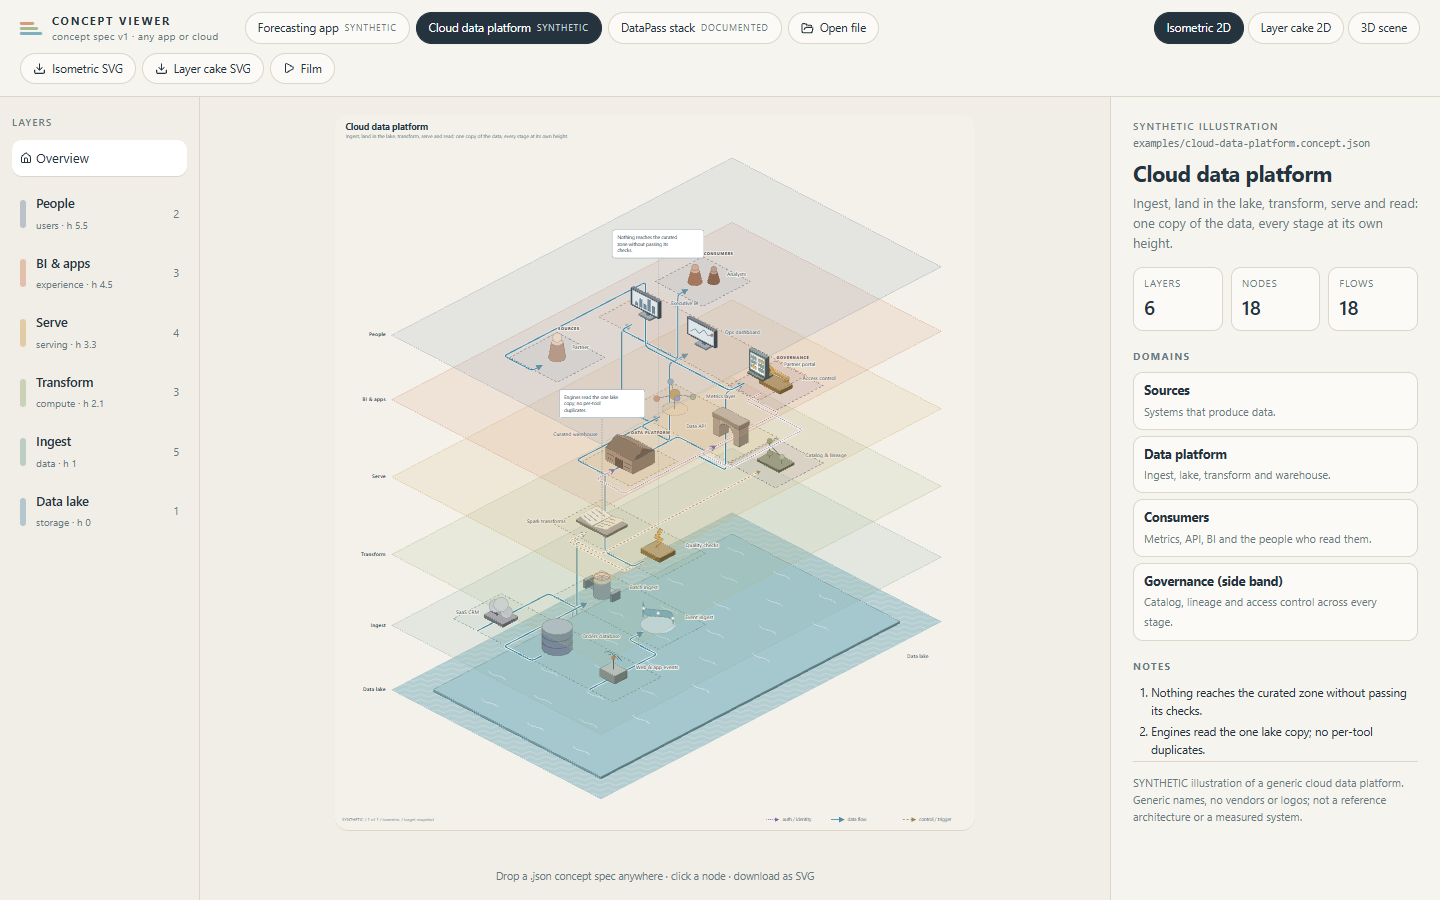
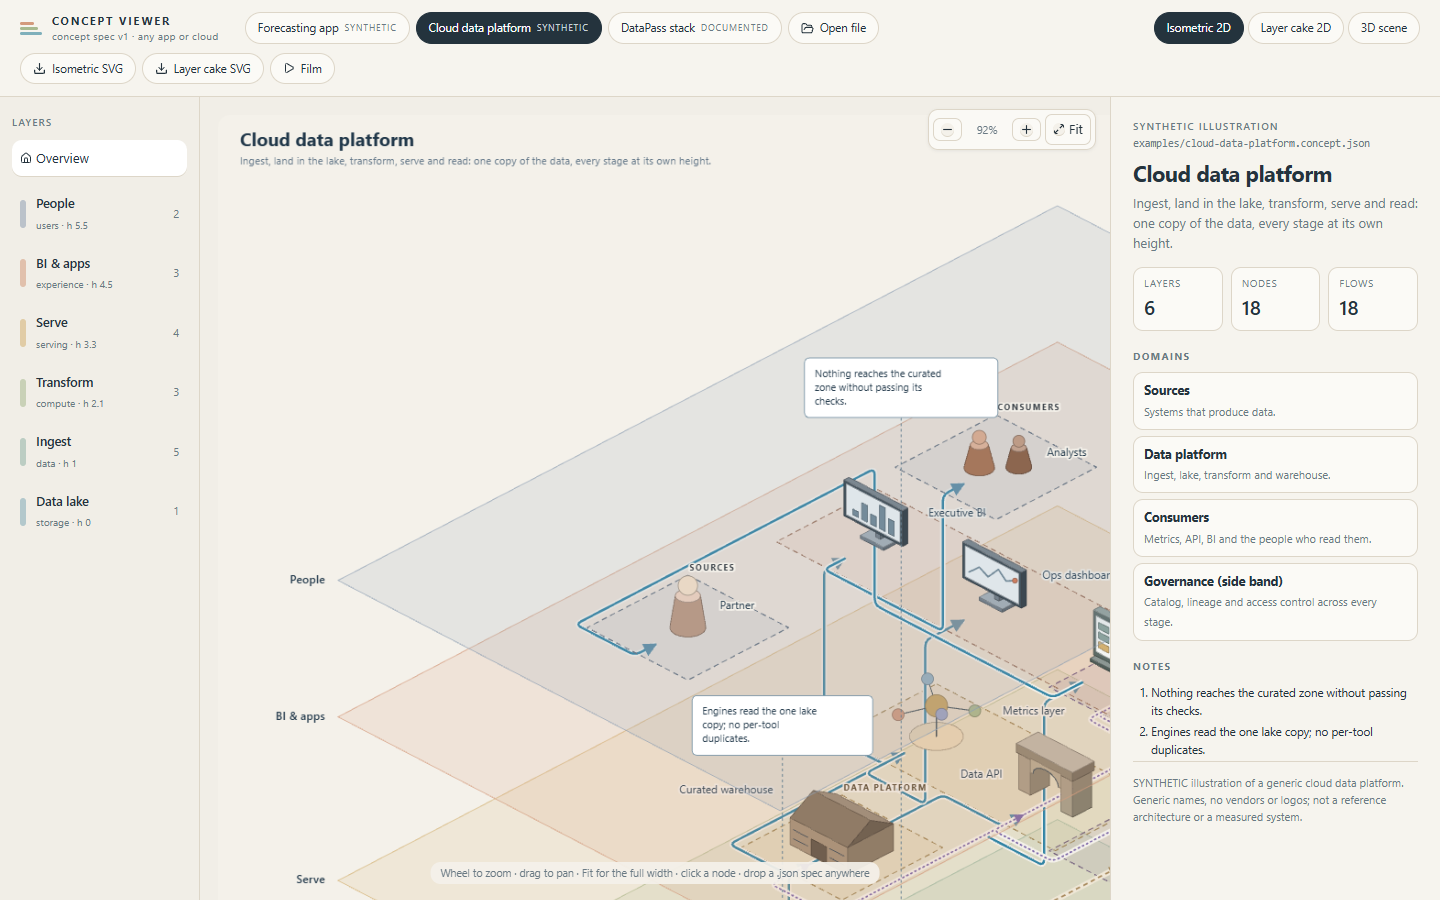
fix(concept-viewer): isometric pan/zoom at readable label size; perf gate doc count; README 0.8
- concept-viewer isometric view: fit to stage width, start zoomed so node labels are >= 11 px,
  wheel zoom, drag pan, Fit button; SVG export stays full size. Smoke test and captures updated.
- CLIENT_PERFORMANCE_GATES.md: 19 targets/limits (was 16); a unit test ties it to clientBudgets.
- README: v0.8 and a short "what's in 0.8" section (Fabric Bricks marked draft).

diff --git a/clients/concept-viewer/PanZoom.tsx b/clients/concept-viewer/PanZoom.tsx
@@ -1,0 +1,83 @@
+import {useCallback,useEffect,useLayoutEffect,useMemo,useRef,useState} from 'react';
+import {Maximize2,Minus,Plus} from 'lucide-react';
+
+/** Smallest on-screen size (CSS px) of a node label at the starting zoom. */
+export const MIN_LABEL_PX=11;
+const PAD=18,MAX_ZOOM=4,KEEP=80;
+type View={k:number;x:number;y:number};
+const VIEWBOX=/viewBox="([-\d.]+) ([-\d.]+) ([-\d.]+) ([-\d.]+)"/;
+const viewBoxOf=(attr:string)=>{const m=VIEWBOX.exec(attr);return m?{w:Number(m[3]),h:Number(m[4])}:null;};
+
+/**
+ * Pan/zoom stage for a static SVG string (isometric view). The SVG is laid out at its viewBox size (1 unit = 1 CSS px)
+ * and scaled with a CSS transform, so the markup and the exported file stay full size.
+ * Start: fit to the stage width, zoomed in further when needed so the smallest node label is >= MIN_LABEL_PX on screen.
+ * Wheel zooms around the pointer, drag pans (a drag never counts as a click), "Fit" returns to the stage width.
+ */
+export function PanZoom({svg,resetKey,testId,onClick}:{svg:string;resetKey:string;testId:string;onClick:(e:React.MouseEvent)=>void}){
+  const host=useRef<HTMLDivElement>(null),content=useRef<HTMLDivElement>(null);
+  // Keyed on the viewBox text: a new selection re-renders the markup but must not reset the view.
+  const vbText=VIEWBOX.exec(svg)?.[0]??'',box=useMemo(()=>viewBoxOf(vbText),[vbText]);
+  const sized=useMemo(()=>box?svg.replace(/^<svg /,`<svg width="${box.w}" height="${box.h}" `):svg,[svg,box]);
+  const [view,setView]=useState<View|null>(null),[fitK,setFitK]=useState(1),[labelFont,setLabelFont]=useState(0);
+  const touched=useRef(false),drag=useRef<{id:number;x:number;y:number;vx:number;vy:number;moved:boolean}|null>(null),suppress=useRef(false);
+  const viewRef=useRef(view);viewRef.current=view;
+
+  const size=()=>{const r=host.current?.getBoundingClientRect();return {cw:r?.width??0,ch:r?.height??0};};
+  /** Keep at least KEEP px of the diagram inside the stage; a diagram narrower than the stage is centred horizontally. */
+  const clamp=useCallback((v:View):View=>{
+    if(!box)return v;const {cw,ch}=size(),w=box.w*v.k,h=box.h*v.k;
+    const x=w<=cw-2*PAD?(cw-w)/2:Math.min(cw-KEEP,Math.max(KEEP-w,v.x));
+    const y=Math.min(ch-KEEP,Math.max(KEEP-h,v.y));
+    return {k:v.k,x,y};
+  },[box]);
+  const fit=useCallback((readable:boolean)=>{
+    if(!box||!content.current)return;const {cw}=size();if(!cw)return;
+    const fonts=[...content.current.querySelectorAll('[data-entity] text,[data-node] text')].map(t=>Number(t.getAttribute('font-size'))).filter(n=>n>0);
+    const font=fonts.length?Math.min(...fonts):0,k=(cw-2*PAD)/box.w;
+    setFitK(k);setLabelFont(font);
+    const start=readable&&font?Math.max(k,MIN_LABEL_PX/font):k;
+    // Wider than the stage: start at the left edge, where the title and the layer labels are.
+    setView(clamp({k:start,x:PAD,y:PAD}));
+  },[box,clamp]);
+  // New spec or new stage size (until the reader pans or zooms): fit to width at a readable zoom.
+  useLayoutEffect(()=>{touched.current=false;fit(true);},[resetKey,box?.w,box?.h,fit]);
+  useEffect(()=>{
+    const el=host.current;if(!el)return;
+    const ro=new ResizeObserver(()=>{if(!touched.current)fit(true);else setView(v=>v&&clamp(v));});ro.observe(el);
+    return()=>ro.disconnect();
+  },[fit,clamp]);
+  const zoomAt=useCallback((factor:number,px?:number,py?:number)=>{
+    setView(v=>{if(!v)return v;const {cw,ch}=size(),cx=px??cw/2,cy=py??ch/2,minK=Math.min(fitK,1)*.5;
+      const k=Math.min(MAX_ZOOM,Math.max(minK,v.k*factor)),r=k/v.k;
+      return clamp({k,x:cx-(cx-v.x)*r,y:cy-(cy-v.y)*r});});
+    touched.current=true;
+  },[fitK,clamp]);
+  // Wheel needs a non-passive listener to keep the page from scrolling.
+  useEffect(()=>{
+    const el=host.current;if(!el)return;
+    const wheel=(e:WheelEvent)=>{e.preventDefault();const r=el.getBoundingClientRect();zoomAt(Math.exp(-e.deltaY*(e.deltaMode===1?.05:.0015)),e.clientX-r.left,e.clientY-r.top);};
+    el.addEventListener('wheel',wheel,{passive:false});return()=>el.removeEventListener('wheel',wheel);
+  },[zoomAt]);
+  const down=(e:React.PointerEvent)=>{if(e.button!==0||!viewRef.current||(e.target as Element).closest('.cv-pz-tools'))return;drag.current={id:e.pointerId,x:e.clientX,y:e.clientY,vx:viewRef.current.x,vy:viewRef.current.y,moved:false};};
+  const move=(e:React.PointerEvent)=>{
+    const d=drag.current;if(!d||d.id!==e.pointerId)return;const dx=e.clientX-d.x,dy=e.clientY-d.y;
+    if(!d.moved&&Math.hypot(dx,dy)<4)return;
+    if(!d.moved){d.moved=true;host.current?.setPointerCapture(e.pointerId);host.current?.classList.add('dragging');}
+    touched.current=true;setView(v=>v&&clamp({k:v.k,x:d.vx+dx,y:d.vy+dy}));
+  };
+  const up=(e:React.PointerEvent)=>{const d=drag.current;if(!d||d.id!==e.pointerId)return;drag.current=null;host.current?.classList.remove('dragging');
+    if(d.moved){suppress.current=true;setTimeout(()=>{suppress.current=false;},0);}};
+  const k=view?.k??1;
+  return <div ref={host} className="aa-svg cv-pz" data-testid={testId} data-zoom={k.toFixed(3)} data-fit-zoom={fitK.toFixed(3)} data-label-px={(labelFont*k).toFixed(2)}
+    onPointerDown={down} onPointerMove={move} onPointerUp={up} onPointerCancel={up}
+    onClickCapture={e=>{if(suppress.current){e.stopPropagation();e.preventDefault();suppress.current=false;}}} onClick={onClick}>
+    <div ref={content} className="cv-pz-content" style={{transform:view?`translate(${view.x}px,${view.y}px) scale(${view.k})`:undefined,visibility:view?'visible':'hidden'}} dangerouslySetInnerHTML={{__html:sized}}/>
+    <div className="cv-pz-tools" role="group" aria-label="Zoom">
+      <button onClick={()=>zoomAt(1/1.25)} aria-label="Zoom out" title="Zoom out"><Minus size={13}/></button>
+      <output aria-live="polite">{Math.round(k*100)}%</output>
+      <button onClick={()=>zoomAt(1.25)} aria-label="Zoom in" title="Zoom in"><Plus size={13}/></button>
+      <button onClick={()=>{touched.current=false;fit(false);}} aria-label="Fit to width" title="Fit the diagram to the stage width"><Maximize2 size={12}/> Fit</button>
+    </div>
+  </div>;
+}

diff --git a/clients/concept-viewer/qa/smoke.spec.ts b/clients/concept-viewer/qa/smoke.spec.ts
@@ -24,12 +24,53 @@ const clipped=(page:Page,selector:string)=>page.locator(selector).evaluate((root
   return out;
 });
 
+/** On-screen font size (CSS px) of every node label in the isometric view, CSS transform included. */
+const nodeLabelPx=(page:Page)=>page.locator('[data-testid=concept-isometric] svg[data-representation=isometric]').evaluate((root:SVGSVGElement)=>
+  [...root.querySelectorAll<SVGTextElement>('[data-entity] text,[data-node] text')].filter(t=>t.getBBox().width).map(t=>Number(t.getAttribute('font-size'))*t.getScreenCTM()!.a));
+
+test('isometric pan/zoom: wheel zooms, drag pans without selecting, Fit returns to the stage width, export stays full size',async({page})=>{
+  const errors=await open(page,'&spec=examples/cloud-data-platform.concept.json&view=isometric');
+  const iso=page.getByTestId('concept-isometric'),viewer=page.getByTestId('concept-viewer');
+  await expect(iso.locator('svg[data-representation=isometric]')).toBeVisible();
+  const zoom=async()=>Number(await iso.getAttribute('data-zoom'));
+  const fitZoom=Number(await iso.getAttribute('data-fit-zoom')),start=await zoom();
+  const stage=(await iso.boundingBox())!,cx=stage.x+stage.width/2,cy=stage.y+stage.height/2;
+  await page.mouse.move(cx,cy);await page.mouse.wheel(0,-400);
+  await expect.poll(zoom).toBeGreaterThan(start*1.2);
+  const before=await iso.locator('.cv-pz-content').evaluate(e=>getComputedStyle(e).transform);
+  await page.mouse.move(cx,cy);await page.mouse.down();await page.mouse.move(cx-120,cy-60,{steps:6});await page.mouse.up();
+  expect(await iso.locator('.cv-pz-content').evaluate(e=>getComputedStyle(e).transform)).not.toBe(before);
+  await expect(viewer).toHaveAttribute('data-selection','none');
+  await page.getByRole('button',{name:'Zoom out'}).click();
+  await page.getByRole('button',{name:'Fit to width'}).click();
+  await expect.poll(zoom).toBeCloseTo(fitZoom,2);
+  const svgBox=(await iso.locator('svg[data-representation=isometric]').boundingBox())!;
+  expect(Math.abs(svgBox.width-(stage.width-36))).toBeLessThan(2);
+  // A plain click still selects a node.
+  const nodeId=await iso.locator('[data-entity]').first().getAttribute('data-entity');
+  await iso.locator(`[data-entity="${nodeId}"] text`).first().click();
+  await expect(viewer).toHaveAttribute('data-selection',nodeId!);
+  // The SVG download is the full-size markup, not the zoomed view.
+  const download=page.waitForEvent('download');
+  await page.getByRole('button',{name:/Isometric SVG/}).click();
+  const file=await (await download).path(),text=(await import('node:fs')).readFileSync(file,'utf8');
+  const rendered=await iso.locator('svg[data-representation=isometric]').getAttribute('viewBox');
+  expect(text).toContain(`viewBox="${rendered}"`);
+  expect(text).not.toMatch(/^<svg[^>]*\swidth=/);
+  expect(text).not.toContain('scale(');
+  expect(errors).toEqual([]);
+});
+
 for(const id of EXAMPLES)test(`${id}: three renderings from one file, labels never clip, captures`,async({page})=>{
   const errors=await open(page,`&spec=examples/${id}.concept.json&view=isometric`);
   const viewer=page.getByTestId('concept-viewer');
   await expect(viewer).toHaveAttribute('data-spec',id);
   await expect(page.locator('[data-testid=concept-isometric] svg[data-renderer=framework-motion-v2]')).toBeVisible();
-  expect(await clipped(page,'[data-testid=concept-isometric] svg')).toEqual([]);
+  expect(await clipped(page,'[data-testid=concept-isometric] svg[data-representation=isometric]')).toEqual([]);
+  // Starts fitted to the stage width (or closer) with every node label >= 11 px on screen.
+  const iso=page.getByTestId('concept-isometric');
+  expect(Math.min(...await nodeLabelPx(page))).toBeGreaterThanOrEqual(11-.01);
+  expect(Number(await iso.getAttribute('data-zoom'))).toBeGreaterThanOrEqual(Number(await iso.getAttribute('data-fit-zoom'))-.001);
   await page.screenshot({path:path.join(CAPTURES,`${id}.isometric.png`)});
   await page.getByRole('button',{name:'Layer cake 2D',exact:true}).click();
   await expect(page.locator('[data-testid=concept-layered] svg[data-representation=layered]')).toBeVisible();

diff --git a/clients/concept-viewer/ConceptViewer.tsx b/clients/concept-viewer/ConceptViewer.tsx
@@ -10,6 +10,7 @@ import {NodeDetails} from '../../src/framework/concept/react/NodeDetails.tsx';
 import '../../src/framework/concept/react/concept.css';
 import './viewer.css';
 import {EXAMPLES,RENDERINGS,safeSpecPath,type Rendering} from './examples.ts';
+import {PanZoom} from './PanZoom.tsx';
 
 const Stage=lazy(()=>import('../../src/framework/concept/react/ConceptStage.tsx'));
 const Film=lazy(()=>import('../../src/framework/concept/react/ConceptFilm.tsx'));
@@ -102,8 +103,9 @@ export function ConceptViewer(){
       <div className="aa-stage">
         {!spec?<div className="aa-loading" role="status">{problem?'No valid spec loaded.':'Loading…'}</div>
           :view==='3d'?<Suspense fallback={<div className="aa-loading" role="status">Raising the layers…</div>}><Stage spec={spec} nav={nav} reduced={reduced} onSelect={select} onStep={go}/></Suspense>
+          :view==='isometric'?<PanZoom svg={svg} resetKey={spec.id+'|'+(loaded?.source??'')} testId="concept-isometric" onClick={svgClick}/>
           :<div className="aa-svg" data-testid={'concept-'+view} onClick={svgClick} dangerouslySetInnerHTML={{__html:svg}}/>}
-        <div className="aa-hint">{view==='3d'?'Scroll or ↑ ↓ between layers · ← → across domains · click a node':'Drop a .json concept spec anywhere · click a node · download as SVG'}</div>
+        <div className="aa-hint">{view==='3d'?'Scroll or ↑ ↓ between layers · ← → across domains · click a node':view==='isometric'?'Wheel to zoom · drag to pan · Fit for the full width · click a node · drop a .json spec anywhere':'Drop a .json concept spec anywhere · click a node · download as SVG'}</div>
         {problem&&<div className="cv-problem" role="alert" data-testid="concept-problem">
           <button className="aa-close" onClick={()=>setProblem(null)} aria-label="Dismiss"><X size={14}/></button>
           <b>{problem.source} was not loaded</b>{spec&&<small> · still showing {spec.title}</small>}

diff --git a/clients/concept-viewer/viewer.css b/clients/concept-viewer/viewer.css
@@ -6,4 +6,12 @@
 .cv-problem{position:absolute;left:18px;right:18px;top:14px;z-index:5;background:#fff7f2;border:1px solid #e3b9a2;border-radius:12px;padding:12px 40px 12px 16px;font-size:12px;color:#5a3424;box-shadow:0 4px 14px rgba(36,51,61,.08)}
 .cv-problem ul{margin:6px 0 0;padding-left:18px}.cv-problem li{margin:2px 0}.cv-problem code{font-size:11px;background:#fbe7dc;border-radius:4px;padding:1px 5px}
 .cv-problem .aa-close{top:8px;right:8px}
+.cv .cv-pz{display:block;padding:0;overflow:hidden;cursor:grab;touch-action:none;user-select:none}
+.cv .cv-pz.dragging{cursor:grabbing}
+.cv-pz-content{position:absolute;left:0;top:0;transform-origin:0 0;will-change:transform}
+.cv .cv-pz svg{display:block;max-width:none;max-height:none}
+.cv-pz-tools{position:absolute;right:14px;top:12px;z-index:4;display:flex;align-items:center;gap:4px;padding:4px;border:1px solid var(--line);border-radius:10px;background:rgba(251,250,246,.92);box-shadow:0 1px 3px rgba(36,51,61,.08);cursor:default}
+.cv-pz-tools button{display:inline-flex;align-items:center;gap:4px;border:1px solid var(--line);background:var(--card);border-radius:7px;padding:4px 7px;font-size:11.5px}
+.cv-pz-tools output{min-width:42px;text-align:center;font-size:11px;color:var(--muted);font-variant-numeric:tabular-nums}
+.cv .aa-hint{left:50%;right:auto;transform:translateX(-50%);white-space:nowrap;padding:3px 10px;border-radius:10px;background:rgba(244,241,234,.92)}
 .cv-drop{position:absolute;inset:12px;z-index:6;display:grid;place-items:center;border:2px dashed #2f6f84;border-radius:16px;background:rgba(241,238,231,.88);font-size:15px;font-weight:600;color:#2f6f84;pointer-events:none}

diff --git a/docs/CLIENT_PERFORMANCE_GATES.md b/docs/CLIENT_PERFORMANCE_GATES.md
@@ -1,6 +1,6 @@
 # Selected-client payload gates
 
-The existing isolated build/browser matrix verifies 16 concrete targets: eight reference clients and eight newly scaffolded clients. It asserts source isolation, no other-client payload, no unexpected network, and absence of unrequested heavyweight capabilities. The motion/content route stays free of Three.js and DuckDB; the model route loads geometry only on explicit 3D choice.
+The existing isolated build/browser matrix verifies 19 concrete targets: eight reference clients, three product clients (portfolio-showcase, animated-coding-lab, concept-viewer) and eight scaffolded acceptance clients. The count is `Object.keys(clientBudgets).length` in `scripts/check-client-performance.mjs`; a unit test keeps this page in step with it. The matrix asserts source isolation, no other-client payload, no unexpected network, and absence of unrequested heavyweight capabilities. The motion/content route stays free of Three.js and DuckDB; the model route loads geometry only on explicit 3D choice.
 
 The Pro increment adds per-target emitted-JavaScript budgets after the complete matrix. `npm run test:client-builds` now runs the browser/build checks and `scripts/check-client-performance.mjs`. Re-check existing measured results with `npm run test:client-performance`. The machine-readable artifact is `qa/client-performance.json`.
 
@@ -10,7 +10,7 @@ The metric is the sum of the individually gzipped emitted JavaScript chunks. It 
 
[1 lines of base64/hex data omitted]
 
-Examples: the fresh content starter has a 125 KiB ceiling, motion reference 180 KiB, motion starter 175 KiB, operations reference 210 KiB, and model reference 410 KiB. All 16 limits and baseline bytes are checked in the gate source. Raising a budget requires a named requirement and evidence, not just changing a failing number.
+Examples: the fresh content starter has a 125 KiB ceiling, motion reference 180 KiB, motion starter 175 KiB, operations reference 210 KiB, and model reference 410 KiB. All 19 limits and baseline bytes are checked in the gate source. Raising a budget requires a named requirement and evidence, not just changing a failing number.
 
 Missing clients, duplicated clients, unknown targets, failed browser status, absent/nonfinite measurements and mutated framework source fail the gate. Partial output cannot be labelled a passed matrix. Twelve negative/boundary unit tests protect this accounting.
 

diff --git a/README.md b/README.md
@@ -1,8 +1,17 @@
 # DataPass MosaicStudio
 
-**v0.7 alpha source SDK for AI-built technical websites.** Client content, approved data, domain calculations and page composition live under `clients/<id>/`; reusable state, contracts and rendering live under `src/framework/`.
+**v0.8 alpha source SDK for AI-built technical websites.** Client content, approved data, domain calculations and page composition live under `clients/<id>/`; reusable state, contracts and rendering live under `src/framework/`.
 
-Working branch: `feat/studio2-model-assets`, draft PR #8. This extends qualified v0.6. No merge, deployment, package publication, dependency upgrade or donor-repository modification is implied.
+`main` carries DataPass Studio 0.8 (rc3 plus the night packages, PR #34; RC history in `docs/RELEASE_0.8_RC.md`). It extends qualified v0.7. No deployment, package publication or donor-repository modification is implied.
+
+## What's in 0.8
+
+- **Concept spec v1**: one JSON file describes an app or cloud architecture (layers, domains, nodes, flows) and renders as an isometric SVG, a flat layer cake and a lazy 3D scene. See [`docs/CONCEPT_SPEC.md`](docs/CONCEPT_SPEC.md).
+- **Viz kit**: the D3 kit in [`src/framework/viz/`](src/framework/viz/) is now the default Chart renderer, with one crossfilter shared by 2D and 3D views (`renderer: 'vizforge'` stays the per-block opt-out).
+- **Python bridge**: Python code produces typed Artifacts that the site renders, plus an optional FastAPI artifact service. See [`docs/PYTHON_BRIDGE.md`](docs/PYTHON_BRIDGE.md).
+- **galaxy-navigator** ([`clients/galaxy-navigator/`](clients/galaxy-navigator/)): one registry snapshot shown as a 3D galaxy, an exportable isometric SVG, a graph, a list, a contract matrix and a board, with one shared selection.
+- **concept-viewer** ([`clients/concept-viewer/`](clients/concept-viewer/)): reference viewer for concept spec files (open, drop or `?spec=`), with pan/zoom on the isometric view, SVG export and a film.
+- **Fabric Bricks** ([`clients/fabric-bricks/`](clients/fabric-bricks/)) is a **draft**: a provisional, synthetic reference client kept without further investment; architecture concept visuals continue in concept spec and Architecture Atlas.
 
 ## Start with the smallest useful client
 

diff --git a/clients/concept-viewer/README.md b/clients/concept-viewer/README.md
@@ -3,7 +3,8 @@
 Opens any **concept spec v1** file (`docs/CONCEPT_SPEC.md`) and switches between its three framework renderings: isometric 2D (Motion v2), layer cake 2D, and the lazy 3D scene. Family: spatial. No AI features.
 
 - Open: example tabs, **Open file**, drag-and-drop a `.json` onto the window, or `?app=concept-viewer&spec=examples/<file>.json` (relative paths only).
-- Rendering: header buttons or `&view=isometric|layered|3d`. Both SVGs download from the header.
+- Rendering: header buttons or `&view=isometric|layered|3d`. Both SVGs download from the header, always at full size.
+- Isometric pan/zoom (`PanZoom.tsx`): starts fitted to the stage width, zoomed in further when needed so every node label is at least 11 px on screen; wheel zooms around the pointer, drag pans (a drag never selects), **Fit** returns to the stage width.
 - An invalid file shows every issue (`path: message`) and keeps the current spec.
 - Film: `&film=1&paused=1&chrome=0&t=<s>`; `window.__conceptFilm.seek(t)`; record with `scripts/record-concept-film.mjs --app concept-viewer --spec examples/forecast-app.concept.json`.
 
